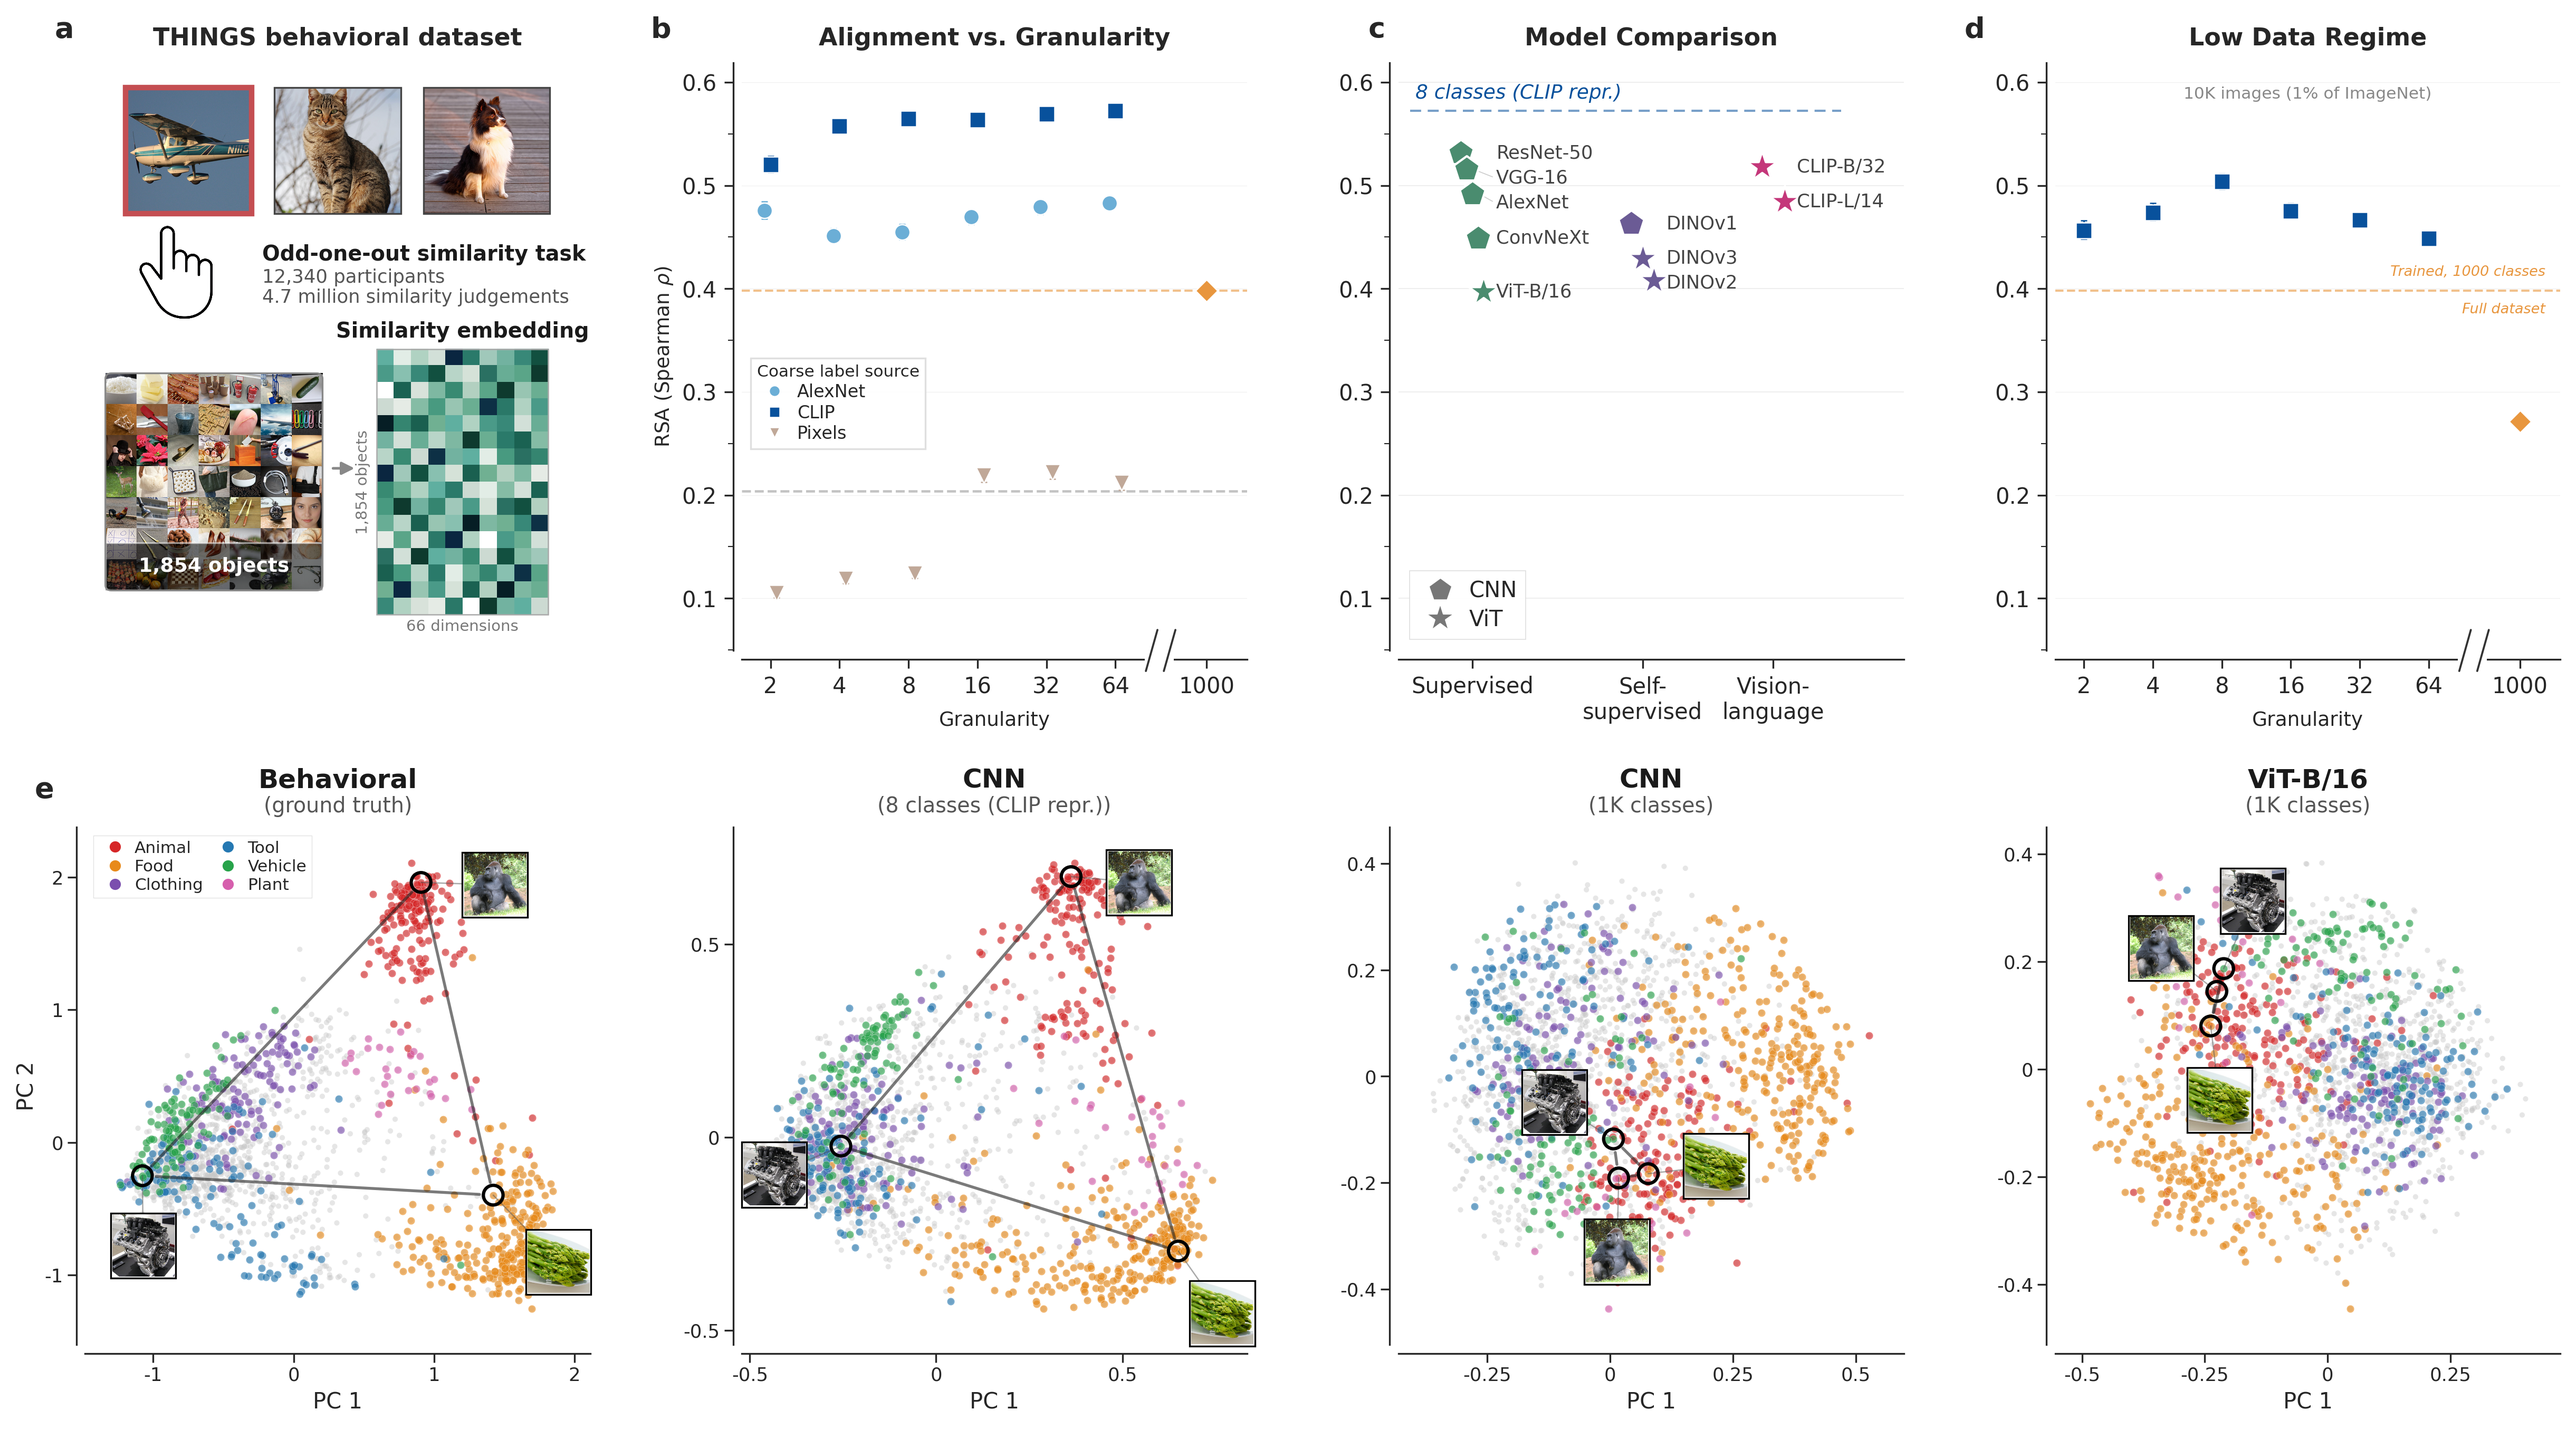
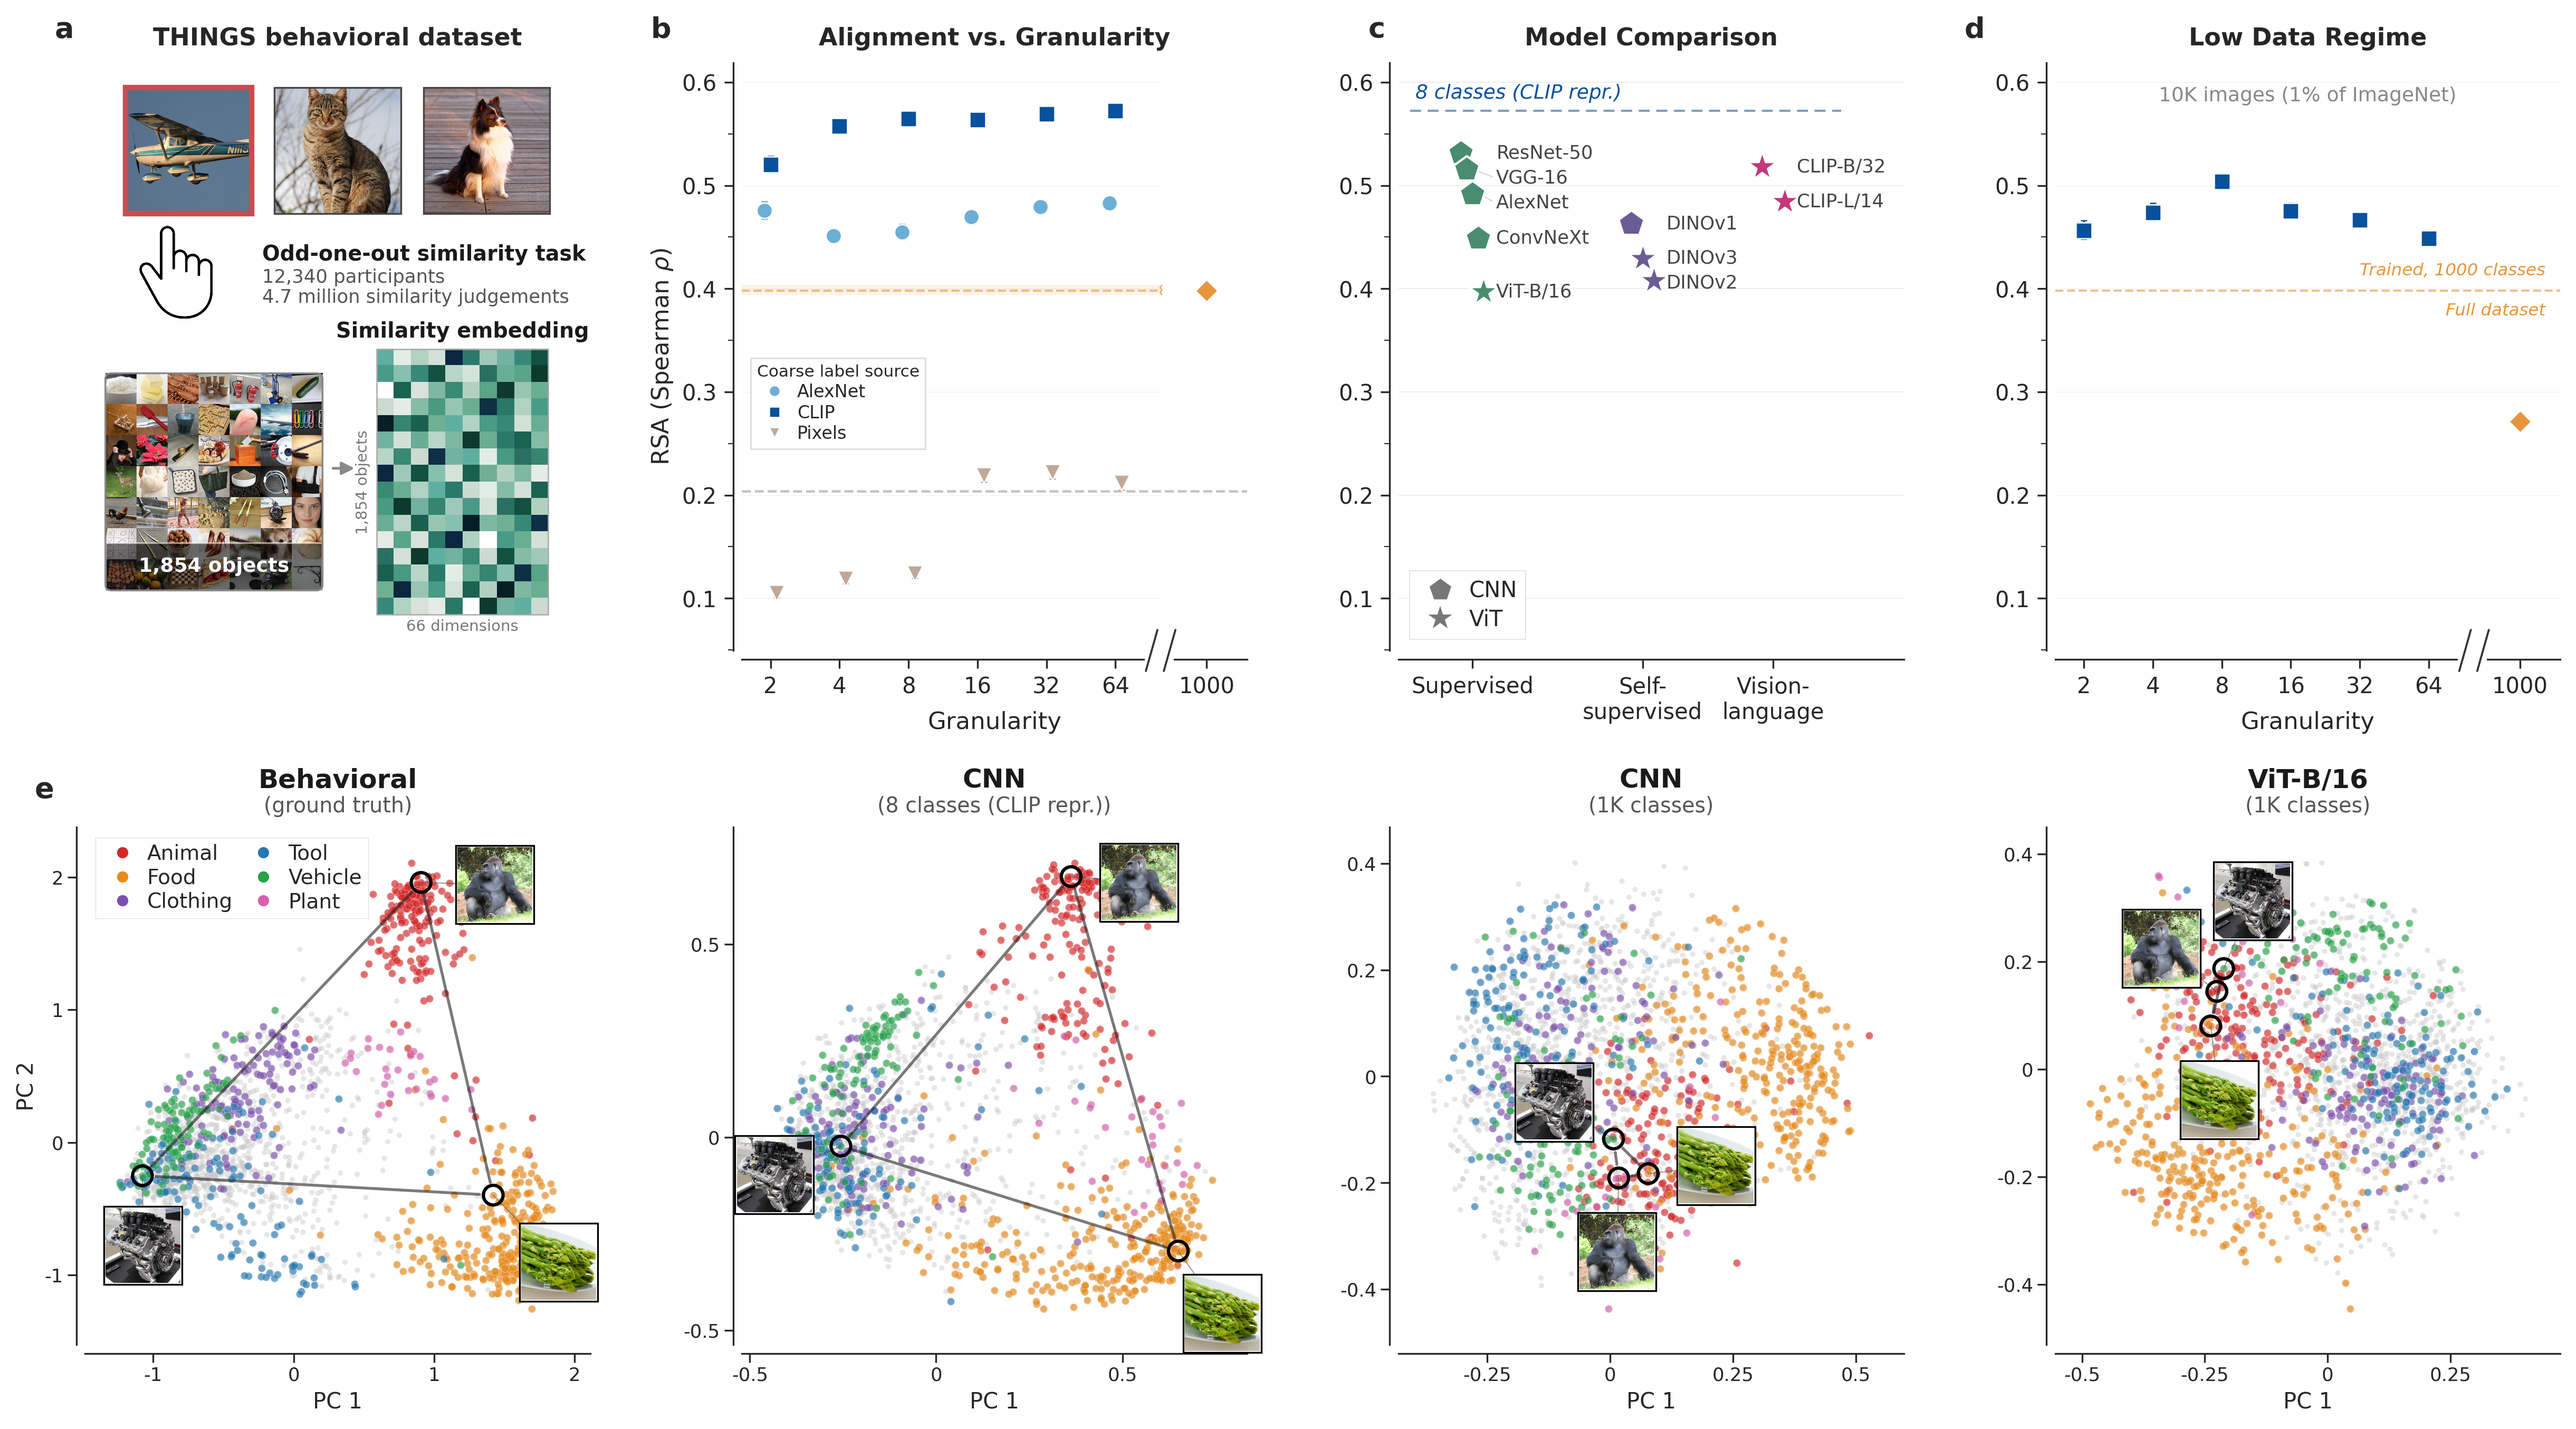
🎨 Fig4: adopt torn CI band and bump font sizes
Panel B now uses draw_torn_ci_band to erase the 1000-way CI band and
dashed mean line past the broken-axis tear, matching Fig3's style.
Bump legend, axis label, and annotation font sizes for better
readability at target print size.

diff --git a/manuscript/figures/fig4/panel_coarseness.py b/manuscript/figures/fig4/panel_coarseness.py
@@ -17,7 +17,7 @@ from plotter_utils import get_condition_summary
 sys.path.insert(0, "manuscript/figures")
 from fig_utils import (
     COARSE_CFGS, MARKER_SIZE, EDGE_COLOR, EDGE_WIDTH, UNTRAINED_LINE_STYLE,
-    BREAK_1K_POS, compute_jitter, draw_xaxis_break,
+    BREAK_1K_POS, compute_jitter, draw_xaxis_break, draw_torn_ci_band,
 )
 
 COARSE_CFGS_SET = set(COARSE_CFGS)
@@ -80,9 +80,22 @@ def plot_coarseness(ax):
                         capsize=1.5, capthick=0.5,
                         ecolor=style["color"], elinewidth=0.7, zorder=4)
 
-    # 1000-way baseline: orange diamond at broken-axis position
+    # 1000-way baseline: CI band + bounded dashed mean + orange diamond
     bl_err_lo = max(bl_mean - bl["ci_low"], 0) if not np.isnan(bl["ci_low"]) else 0
     bl_err_hi = max(bl["ci_high"] - bl_mean, 0) if not np.isnan(bl["ci_high"]) else 0
+
+    # Pale orange CI band across the coarse region (torn later)
+    if not np.isnan(bl["ci_low"]) and not np.isnan(bl["ci_high"]):
+        ax.fill_between([1.5, BREAK_1K_POS], bl["ci_low"], bl["ci_high"],
+                        facecolor=BASELINE_1K_COLOR, alpha=0.12,
+                        edgecolor="none", zorder=1)
+        all_y_vals.extend([bl["ci_low"], bl["ci_high"]])
+
+    # Dashed mean line bounded to coarse region (torn later)
+    ax.plot([1.5, BREAK_1K_POS], [bl_mean, bl_mean],
+            color=BASELINE_1K_COLOR, linestyle="--",
+            linewidth=1.0, alpha=0.6, zorder=2, clip_on=False)
+
     ax.errorbar(BREAK_1K_POS, bl_mean,
                 yerr=[[bl_err_lo], [bl_err_hi]],
                 fmt="D", color=BASELINE_1K_COLOR, markersize=MARKER_SIZE,
@@ -90,15 +103,11 @@ def plot_coarseness(ax):
                 capsize=1.5, capthick=0.5,
                 ecolor=BASELINE_1K_COLOR, elinewidth=0.7, zorder=5)
 
-    # 1000-way dashed reference line
-    ax.axhline(bl_mean, color=BASELINE_1K_COLOR, linestyle="--",
-               linewidth=1.0, alpha=0.6, zorder=2)
-
-    # Untrained baseline (epoch=0)
+    # Untrained baseline (epoch=0) — zorder=3 so mask at 2.6 doesn't erase it
     un = get_condition_summary("things-behavior", "N/A", "imagenet1k", 1000,
                                "spearman", epoch=0, analysis="rsa")
     if not np.isnan(un["mean"]):
-        ax.axhline(un["mean"], **UNTRAINED_LINE_STYLE, zorder=2)
+        ax.axhline(un["mean"], **UNTRAINED_LINE_STYLE, zorder=3)
         all_y_vals.append(un["mean"])
 
     y_min, y_max = min(all_y_vals), max(all_y_vals)
@@ -125,8 +134,12 @@ def plot_coarseness(ax):
         lambda v, _: f"{v:.2f}".rstrip("0").rstrip(".")))
     ax.set_ylim(y_min - y_range * 0.12, y_max + y_range * 0.10)
 
-    ax.set_xlabel("Granularity", fontsize=9, labelpad=6)
-    ax.set_ylabel(r"RSA (Spearman $\rho$)", fontsize=9, labelpad=3)
+    # Tear through the 1000-way CI band (after ylim is final)
+    if not np.isnan(bl["ci_low"]) and not np.isnan(bl["ci_high"]):
+        draw_torn_ci_band(ax, bl["ci_low"], bl["ci_high"], BASELINE_1K_COLOR)
+
+    ax.set_xlabel("Granularity", fontsize=10.8, labelpad=6)
+    ax.set_ylabel(r"RSA (Spearman $\rho$)", fontsize=10.8, labelpad=3)
     sns.despine(ax=ax, right=True, top=True, offset=4)
     draw_xaxis_break(ax)
     ax.set_title("Alignment vs. Granularity",

diff --git a/manuscript/figures/fig4/panel_data_efficiency.py b/manuscript/figures/fig4/panel_data_efficiency.py
@@ -83,12 +83,12 @@ def plot_data_efficiency(ax, ref_ax=None):
         y_off = (y_hi - y_lo) * 0.02
         ax.text(0.97, data_1m["score"] + y_off,
                 "Trained, 1000 classes",
-                fontsize=6.5, fontstyle="italic", color=BASELINE_1K_COLOR,
+                fontsize=7.8, fontstyle="italic", color=BASELINE_1K_COLOR,
                 ha="right", va="bottom",
                 transform=ax.get_yaxis_transform(), zorder=10)
         ax.text(0.97, data_1m["score"] - y_off,
                 "Full dataset",
-                fontsize=6.5, fontstyle="italic", color=BASELINE_1K_COLOR,
+                fontsize=7.8, fontstyle="italic", color=BASELINE_1K_COLOR,
                 ha="right", va="top",
                 transform=ax.get_yaxis_transform(), zorder=10)
 
@@ -140,10 +140,10 @@ def plot_data_efficiency(ax, ref_ax=None):
     ax.yaxis.grid(True, which="major", color="#F0F0F0", linewidth=0.3, zorder=0)
     ax.set_axisbelow(True)
 
-    ax.set_xlabel("Granularity", fontsize=9, labelpad=6)
+    ax.set_xlabel("Granularity", fontsize=10.8, labelpad=6)
     sns.despine(ax=ax, right=True, top=True, offset=4)
     draw_xaxis_break(ax)
 
     ax.set_title("Low Data Regime", fontsize=11, fontweight="semibold", pad=8)
     ax.text(0.5, 0.96, "10K images (1% of ImageNet)", transform=ax.transAxes,
-            fontsize=7.5, color="#888888", ha="center", va="top")
+            fontsize=9.0, color="#888888", ha="center", va="top")

diff --git a/manuscript/figures/fig4/panel_scatter.py b/manuscript/figures/fig4/panel_scatter.py
@@ -240,7 +240,7 @@ def draw_image_insets(axes, all_pcs, concept_names):
             ax.plot([pt[0], ox], [pt[1], oy],
                     color="#555555", linewidth=0.6, linestyle="-",
                     alpha=0.5, zorder=6)
-            im = OffsetImage(images[concept], zoom=0.11)
+            im = OffsetImage(images[concept], zoom=0.1331)
             ab = AnnotationBbox(im, (ox, oy), frameon=True, pad=0.08,
                                 bboxprops=dict(edgecolor="black",
                                                linewidth=0.8, facecolor="white"),

diff --git a/manuscript/figures/fig4/panel_comparison.py b/manuscript/figures/fig4/panel_comparison.py
@@ -194,7 +194,7 @@ def plot_comparison(ax, ref_ax=None):
     scatter_xticks = [group_positions[g] for g in group_positions]
     scatter_xlabels = ["Supervised", "Self-\nsupervised", "Vision-\nlanguage"]
     ax.set_xticks(scatter_xticks)
-    ax.set_xticklabels(scatter_xlabels, fontsize=9.5)
+    ax.set_xticklabels(scatter_xlabels, fontsize=11.4)
 
     ax.yaxis.grid(True, which="major", color="#EBEBEB", linewidth=0.4, zorder=0)
     ax.set_axisbelow(True)

diff --git a/manuscript/figures/fig4/figure4.py b/manuscript/figures/fig4/figure4.py
@@ -111,7 +111,7 @@ def main():
     ]
     leg_cat = pc_axes[0].legend(
         handles=cat_handles, loc="upper left",
-        ncol=2, fontsize=7.5, frameon=True,
+        ncol=2, fontsize=9.375, frameon=True,
         handletextpad=0.2, columnspacing=0.5, labelspacing=0.2,
         borderpad=0.3, edgecolor="#dddddd", fancybox=False, framealpha=0.90)
     leg_cat.get_frame().set_linewidth(0.3)

diff --git a/manuscript/figures/fig4/plot_pc_scatter.py b/manuscript/figures/fig4/plot_pc_scatter.py
@@ -271,7 +271,7 @@ def main():
         for name in SUPER_ORDER
     ]
     fig.legend(handles=handles, loc="lower center",
-               ncol=len(SUPER_ORDER), fontsize=8, frameon=False,
+               ncol=len(SUPER_ORDER), fontsize=10, frameon=False,
                handletextpad=0.4, columnspacing=1.4,
                bbox_to_anchor=(0.5, -0.01))
 
